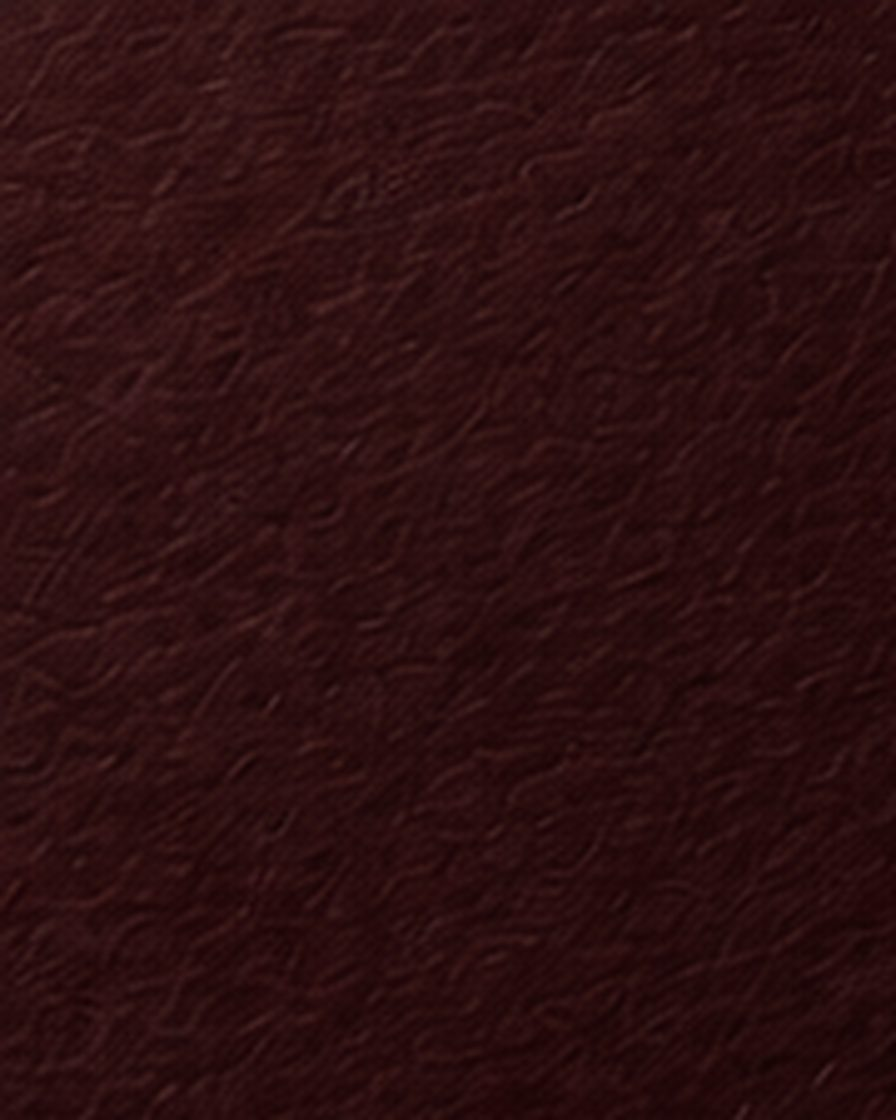
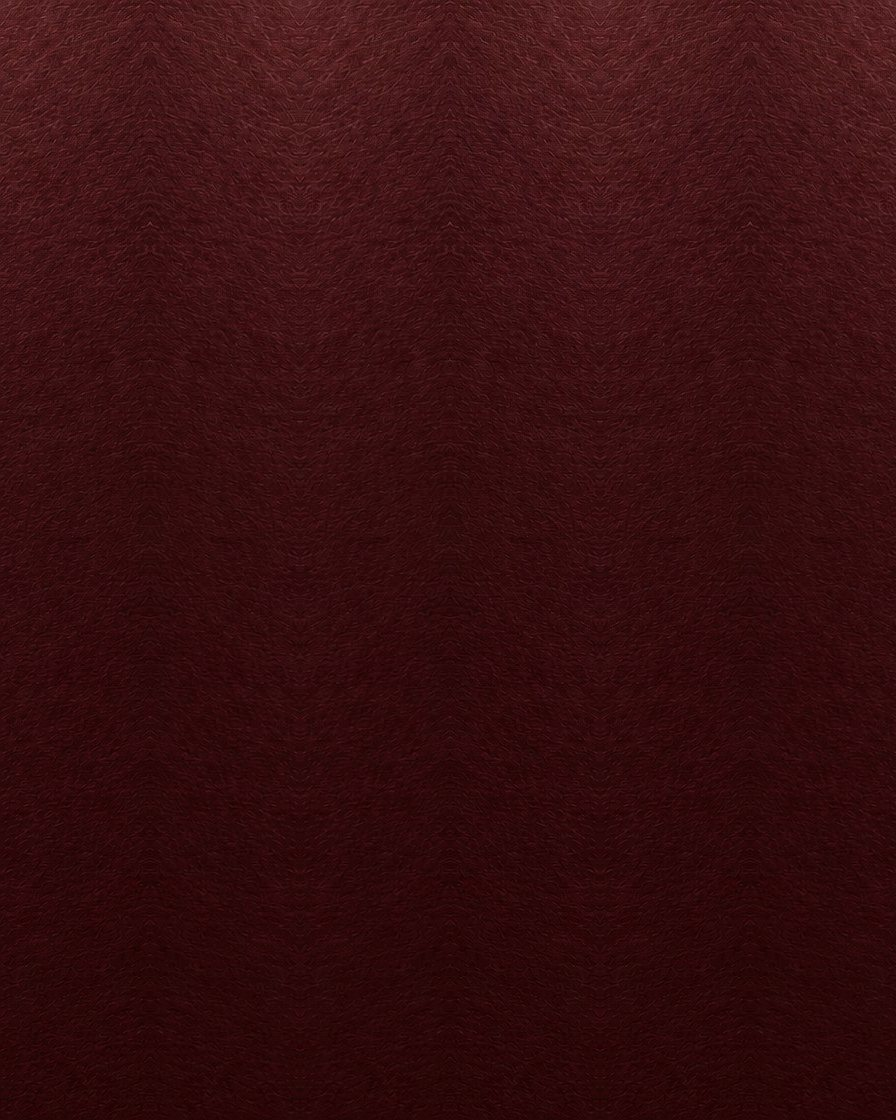
Carta más real: cuero con lomo, papel, bartender presentándola; En tu evento centrado
Claude-Session: https://claude.ai/code/session_01WeT71KubmHYYuBRY5spEhG

diff --git a/index.html b/index.html
@@ -172,44 +172,72 @@ a { color: inherit; }
 /* ───────── La carta: tarjeta de bar + sabores de a uno ───────── */
 .carta { position: relative; }
 .libro-escena {
-  padding: clamp(4rem, 10vw, 7rem) var(--margen) clamp(3rem, 8vw, 5rem);
-  perspective: 2200px;
+  position: relative;
+  min-height: 100svh;
+  display: grid; place-items: center;
+  padding: clamp(4rem, 10vw, 6rem) var(--margen);
+  perspective: 2400px;
   overflow: hidden;
+}
+/* el bartender detrás de la barra presenta la carta */
+.libro-escena__fondo { position: absolute; inset: 0; }
+.libro-escena__fondo img { width: 100%; height: 100%; object-fit: cover; object-position: 50% 30%; opacity: .5; }
+.libro-escena__fondo::after {
+  content: ""; position: absolute; inset: 0;
+  background: linear-gradient(180deg, var(--negro) 0%, rgba(20,20,20,.35) 22%, rgba(20,20,20,.25) 60%, var(--negro) 100%);
 }
 .libro {
   position: relative;
-  width: min(86vw, 27rem);
+  width: min(80vw, 24rem);
   aspect-ratio: 4 / 5;
-  margin: 0 auto;
   transform-style: preserve-3d;
   transition: transform 1.6s cubic-bezier(.65,0,.2,1);
 }
-.libro__pagina {
-  --marco-inset: 8px;
-  position: absolute; inset: 0;
-  display: flex; flex-direction: column;
-  padding: 2.75rem 2rem 1.75rem;
-  background: radial-gradient(120% 90% at 40% 10%, #F6F4F0, var(--crema) 55%, #E4E1DA);
-  color: var(--negro);
-  box-shadow: 0 30px 60px -20px rgba(0,0,0,.7);
-}
-.libro__pagina.marco-mixo::before { filter: invert(1) brightness(.35); }
-.libro__titulo { color: var(--bordo); font-size: clamp(2.5rem, 11vw, 3.25rem); text-align: center; margin-bottom: 1.5rem; }
-.libro__lista { list-style: none; margin: 0; padding: 0; border-top: 1px solid rgba(20,20,20,.18); }
-.libro__lista li { border-bottom: 1px solid rgba(20,20,20,.18); }
-.libro__lista button {
-  width: 100%;
-  display: grid; grid-template-columns: 2rem 1fr auto; align-items: baseline; gap: .5rem;
-  padding: .8rem 0;
-  background: none; border: 0; color: inherit; font: inherit; text-align: left; cursor: pointer;
-}
-.libro__num { font-family: var(--caps); font-size: .8125rem; letter-spacing: .1em; color: rgba(20,20,20,.55); }
-.libro__nombre { font-family: var(--grabado); font-size: clamp(1.1875rem, 4.8vw, 1.5rem); line-height: 1.2; color: var(--negro); transition: color .3s ease; }
-.libro__dest { font-family: var(--caps); font-size: .75rem; letter-spacing: .18em; text-transform: uppercase; color: var(--bordo); }
-.libro__lista button:hover .libro__nombre, .libro__lista button:focus-visible .libro__nombre { color: var(--bordo); }
-.libro__lista button:focus-visible { outline-color: var(--bordo); outline-offset: -2px; }
-.libro__bajada { margin: 1.25rem 0 0; font-style: italic; font-size: .9375rem; line-height: 1.55; color: rgba(20,20,20,.7); text-align: center; }
 
+/* página: papel marfil, sombra del pliegue y canto de hojas */
+.libro__pagina {
+  position: absolute; inset: 0;
+  display: flex; flex-direction: column; align-items: center; text-align: center;
+  padding: 2.5rem 2rem 1.75rem;
+  background: url("media/papel.jpg") center / cover, #EFE8DA;
+  color: #2B1B18;
+  border-radius: 1px 4px 4px 1px;
+  box-shadow:
+    inset 16px 0 22px -14px rgba(70,40,25,.45),
+    1px 1px 0 #E6DECD, 2px 2px 0 #D6CDBA, 3px 3px 0 #E6DECD, 4px 4px 0 #CFC5B1, 5px 5px 0 #E1D8C6,
+    0 40px 60px -24px rgba(0,0,0,.85);
+}
+.libro__pagina::before { /* filete doble impreso */
+  content: ""; position: absolute; inset: 14px;
+  border: 1px solid rgba(70,18,24,.35);
+  outline: 1px solid rgba(70,18,24,.18); outline-offset: 4px;
+  pointer-events: none;
+}
+.libro__pagina::after { /* luz sobre la hoja */
+  content: ""; position: absolute; inset: 0; pointer-events: none;
+  background: linear-gradient(90deg, rgba(60,30,15,.10), transparent 10%, transparent 88%, rgba(60,30,15,.06));
+}
+.libro__logo { width: 44%; height: auto; margin: .25rem 0 .5rem; }
+.libro__titulo {
+  margin: 0 0 1.1rem;
+  font-family: var(--grabado); font-weight: 400;
+  font-size: .9375rem; letter-spacing: .28em; text-transform: uppercase;
+  color: #461218;
+}
+.libro__lista { list-style: none; margin: 0; padding: 0; width: 100%; }
+.libro__lista li + li::before { content: ""; display: block; width: 2.25rem; height: 1px; margin: 0 auto; background: rgba(70,18,24,.35); }
+.libro__lista button {
+  width: 100%; display: grid; gap: .1rem; justify-items: center;
+  padding: .7rem .5rem;
+  background: none; border: 0; color: inherit; font: inherit; cursor: pointer;
+}
+.libro__nombre { font-family: var(--grabado); font-size: clamp(1.25rem, 5vw, 1.5rem); line-height: 1.15; color: #2B1B18; transition: color .3s ease; }
+.libro__dest { font-family: var(--caps); font-size: .6875rem; letter-spacing: .2em; text-transform: uppercase; color: #6A2A30; }
+.libro__lista button:hover .libro__nombre, .libro__lista button:focus-visible .libro__nombre { color: #6A2A30; }
+.libro__lista button:focus-visible { outline: 1px solid #6A2A30; outline-offset: -2px; }
+.libro__bajada { margin: auto 0 0; padding-top: .75rem; font-style: italic; font-size: .875rem; color: rgba(43,27,24,.65); }
+
+/* tapa de cuero con lomo y espesor */
 .libro__tapa {
   position: absolute; inset: 0; z-index: 2;
   padding: 0; border: 0; background: none; cursor: pointer;
@@ -220,28 +248,37 @@ a { color: inherit; }
 .libro__frente, .libro__dorso {
   position: absolute; inset: 0;
   -webkit-backface-visibility: hidden; backface-visibility: hidden;
-  box-shadow: 0 30px 60px -20px rgba(0,0,0,.8), inset 6px 0 10px -6px rgba(0,0,0,.6);
+  border-radius: 2px 6px 6px 2px;
+  overflow: hidden;
+}
+.libro__frente {
+  box-shadow: 1px 1px 0 #2A0A0D, 2px 2px 0 #22080A, 3px 3px 0 #1C0608, 0 40px 60px -24px rgba(0,0,0,.9);
 }
 .libro__frente img { width: 100%; height: 100%; object-fit: cover; }
+.libro__frente::after {
+  content: ""; position: absolute; inset: 0; pointer-events: none;
+  background:
+    linear-gradient(90deg, rgba(0,0,0,.6) 0, rgba(0,0,0,.25) 3%, rgba(255,235,220,.08) 4.2%, transparent 7%),
+    radial-gradient(120% 80% at 20% 0%, rgba(255,240,225,.10), transparent 55%),
+    linear-gradient(180deg, transparent 70%, rgba(0,0,0,.25));
+}
 .libro__dorso {
   transform: rotateY(180deg);
-  display: grid; place-items: center;
   background: url("media/tapa-interior.jpg") center / cover;
 }
-.libro__dorso img { width: 62%; height: auto; opacity: .55; }
-.libro--abierta .libro__tapa { transform: rotateY(-178deg); }
-.libro--abierta .libro__tapa { cursor: default; }
+.libro__dorso::after {
+  content: ""; position: absolute; inset: 0;
+  background: linear-gradient(270deg, rgba(0,0,0,.6) 0, rgba(0,0,0,.2) 4%, transparent 12%), radial-gradient(120% 80% at 70% 0%, rgba(255,240,225,.06), transparent 55%);
+}
+.libro--abierta .libro__tapa { transform: rotateY(-178deg); cursor: default; }
 
 @media (min-width: 900px) {
-  .libro { width: 25rem; }
+  .libro { width: 24rem; }
   .libro--abierta { transform: translateX(50%); }
 }
 @media (max-width: 899px) {
-  .libro { aspect-ratio: 3 / 4; }
-  .libro__pagina { padding: 2.25rem 1.6rem 1.4rem; }
-  .libro__titulo { margin-bottom: 1rem; }
-  .libro__lista button { padding: .7rem 0; }
-  /* en el celular la tapa se abre y sale de cuadro: queda solo la página */
+  .libro { aspect-ratio: 2 / 3; width: min(82vw, 22rem); }
+  .libro__pagina { padding: 2.25rem 1.5rem 1.6rem; }
   .libro--abierta .libro__tapa { transform: rotateY(-178deg) translateX(8%); opacity: 0; transition: transform 1.6s cubic-bezier(.65,0,.2,1), opacity .5s ease 1.1s; }
 }
 .sin-js .libro__tapa, .estatico .libro__tapa { display: none; }
@@ -326,20 +363,21 @@ a { color: inherit; }
 
 /* ───────── En tu evento ───────── */
 .evento { padding: clamp(6rem, 14vw, 10rem) var(--margen) 0; max-width: 78rem; margin: 0 auto; }
-.evento__texto { display: grid; gap: 2.5rem; margin-bottom: clamp(3.5rem, 8vw, 6rem); }
+.evento__texto { display: grid; gap: 2.5rem; justify-items: center; text-align: center; max-width: 40rem; margin: 0 auto clamp(3.5rem, 8vw, 6rem); }
+.evento__texto > div { width: 100%; display: grid; justify-items: center; }
 .evento h2 { font-size: clamp(3.5rem, 14vw, 6rem); margin-bottom: 2rem; }
-.evento p { margin: 0 0 1.25rem; max-width: 36ch; font-size: 1.125rem; }
-.tipos { list-style: none; margin: 0; padding: 0; border-top: 1px solid var(--linea); }
-.tipos li {
+.evento p { margin: 0 auto 1.25rem; max-width: 36ch; font-size: 1.125rem; }
+.tipos { list-style: none; margin: 0 auto; padding: 0; width: min(100%, 30rem); border-top: 1px solid var(--linea); }
+.tipos li { line-height: 1.3;
   font-family: var(--grabado); font-weight: 400;
   font-size: clamp(1.5rem, 5.5vw, 2.25rem); letter-spacing: .02em;
   color: var(--crema);
   padding: .9rem 0; border-bottom: 1px solid var(--linea);
 }
-.tipos .tipos__resto { color: var(--oro-claro); }
-.zona { margin-top: 1.75rem !important; font-size: 1.1875rem !important; line-height: 1.55; color: var(--crema); max-width: 30ch; }
+.tipos .tipos__resto { color: var(--crema); }
+.zona { margin: 1.75rem auto 0 !important; font-size: 1.1875rem !important; line-height: 1.55; color: var(--crema); max-width: 30ch; }
 .zona strong { font-weight: 400; color: var(--oro-claro); }
-@media (min-width: 900px) { .evento__texto { grid-template-columns: 1fr 1fr; gap: 6rem; align-items: end; } }
+
 
 .galeria {
   display: grid; grid-template-columns: 1fr 1fr; gap: .75rem;
@@ -476,20 +514,22 @@ a { color: inherit; }
 
   <section class="carta" id="carta" aria-labelledby="t-carta">
     <div class="libro-escena">
+      <div class="libro-escena__fondo" aria-hidden="true"><img src="media/bartender.jpg" alt="" loading="lazy"></div>
       <div class="libro" id="libro">
-        <div class="libro__pagina marco-mixo">
-          <h2 class="libro__titulo script" id="t-carta">Nuestra colección</h2>
+        <div class="libro__pagina">
+          <img class="libro__logo" src="media/logo-tinta.png" width="700" height="252" alt="Mixo">
+          <h2 class="libro__titulo" id="t-carta">La carta</h2>
           <ol class="libro__lista">
-            <li><button type="button" data-sabor="0"><span class="libro__num">01</span><span class="libro__nombre">Lemon Pie Gimlet</span><span class="libro__dest">Gin</span></button></li>
-            <li><button type="button" data-sabor="1"><span class="libro__num">02</span><span class="libro__nombre">Chocolate Old Fashioned</span><span class="libro__dest">Whisky</span></button></li>
-            <li><button type="button" data-sabor="2"><span class="libro__num">03</span><span class="libro__nombre">DDL Reserve</span><span class="libro__dest">Ron</span></button></li>
-            <li><button type="button" data-sabor="3"><span class="libro__num">04</span><span class="libro__nombre">Berry Martini</span><span class="libro__dest">Vodka</span></button></li>
+            <li><button type="button" data-sabor="0"><span class="libro__nombre">Lemon Pie Gimlet</span><span class="libro__dest">Gin ice cream</span></button></li>
+            <li><button type="button" data-sabor="1"><span class="libro__nombre">Chocolate Old Fashioned</span><span class="libro__dest">Whisky ice cream</span></button></li>
+            <li><button type="button" data-sabor="2"><span class="libro__nombre">DDL Reserve</span><span class="libro__dest">Ron ice cream</span></button></li>
+            <li><button type="button" data-sabor="3"><span class="libro__nombre">Berry Martini</span><span class="libro__dest">Vodka ice cream</span></button></li>
           </ol>
-          <p class="libro__bajada">Cuatro clásicos de la barra, convertidos en helado de autor.<br>Tocá uno para conocerlo.</p>
+          <p class="libro__bajada">Tocá un sabor para conocerlo.</p>
         </div>
         <button class="libro__tapa" id="tapa" type="button" aria-label="Abrir la carta de Mixo">
           <span class="libro__frente"><img src="media/tapa.jpg" width="896" height="1120" alt=""></span>
-          <span class="libro__dorso" aria-hidden="true"><img src="media/logo-script.png" width="1400" height="505" alt=""></span>
+          <span class="libro__dorso" aria-hidden="true"></span>
         </button>
       </div>
     </div>
@@ -580,7 +620,6 @@ a { color: inherit; }
       </div>
       <div class="galeria__col" data-velocidad="0.1">
         <img src="media/barra.jpg" alt="La barra de Mixo" loading="lazy">
-        <img class="ancha" src="media/bartender.jpg" alt="Bartender de Mixo detrás de la barra" loading="lazy">
         <img src="media/ritual-merengue.jpg" alt="Merengue flameado sobre el Lemon Pie Gimlet" loading="lazy">
         <img src="media/evento-old-fashioned.jpg" alt="Invitado con un Old Fashioned de Mixo" loading="lazy">
       </div>
